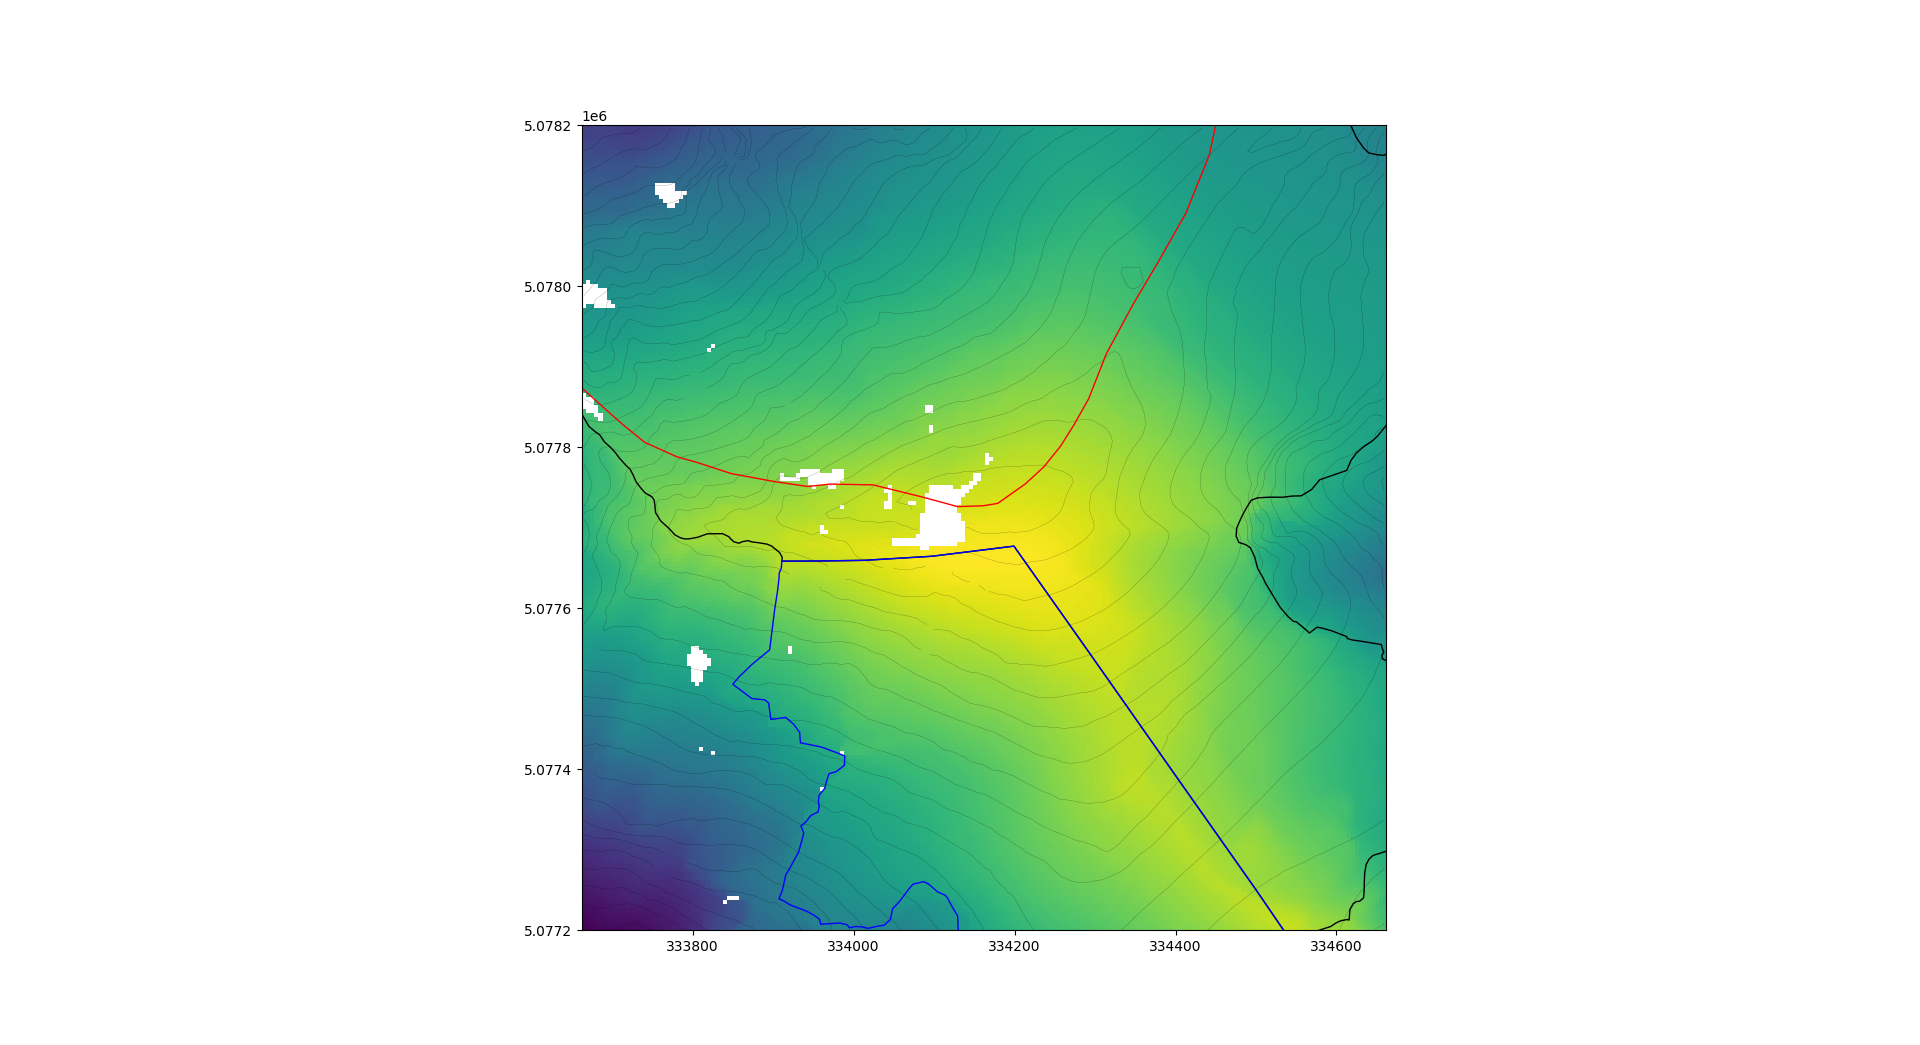
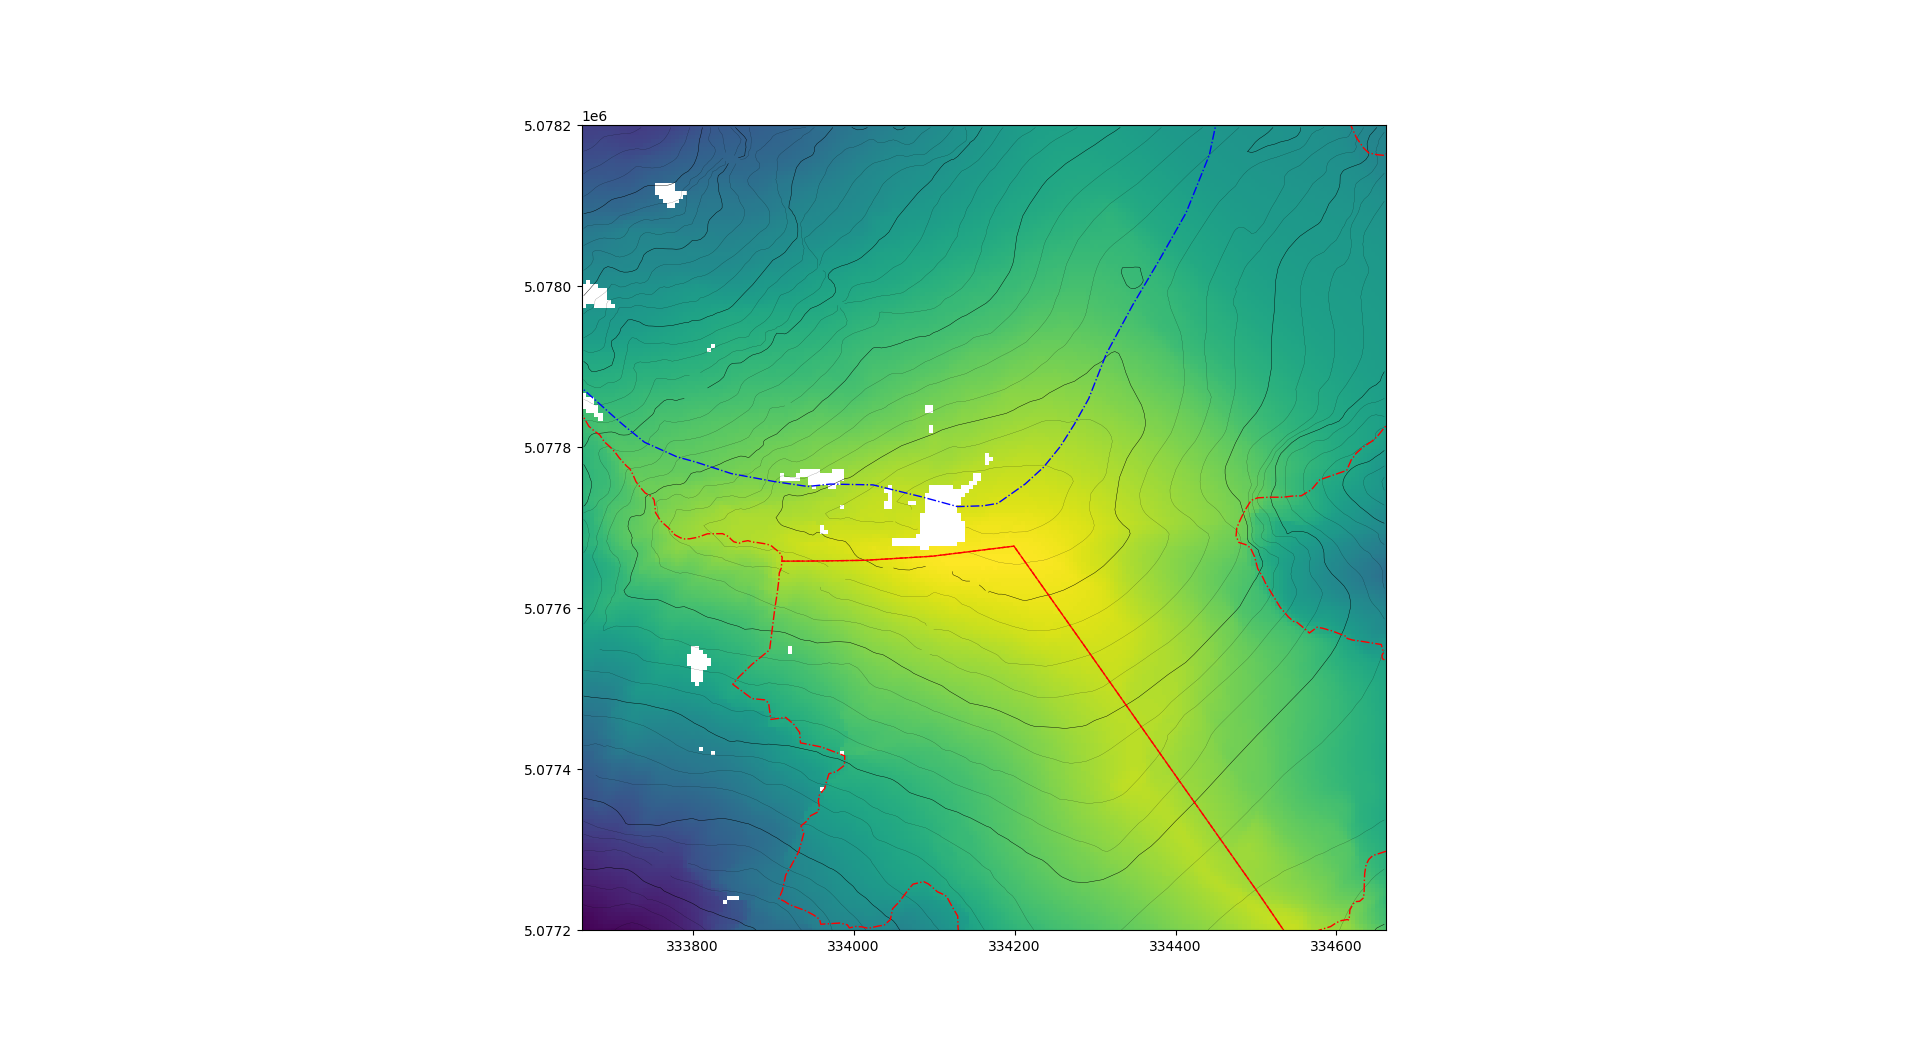
Contour levels!

Changed region(s): [[0.4375, 0.5206, 0.4688, 0.5512], [0.4062, 0.4593, 0.4375, 0.49], [0.3125, 0.3981, 0.3438, 0.4287]]

diff --git a/confine/monte_bianco.py b/confine/monte_bianco.py
@@ -75,18 +75,24 @@ if np.any(raw_dem == -9999):
 
 qcs = plt.contour(raw_dem,levels = list(range(4000, 5000, 25)))    
 
+idx = 0
+lw = .1
 for collection in qcs.collections:
+    if int(qcs.levels[idx]) % 100 == 0:
+        lw=.3
+    else:
+        lw=.1
     for path in collection.get_paths():
         for polygon in path.to_polygons(): 
             polygon[:,0]=5*(polygon[:,0]-raw_dem.shape[0]/2)
             polygon[:,1]=5*(polygon[:,1]-raw_dem.shape[1]/2)
             polygon[:,0]=polygon[:,0]+monte_bianco[0]
             polygon[:,1]=polygon[:,1]+monte_bianco[1]
-            ax.add_patch(Polygon(polygon,fill=None,closed=False,linewidth=.1))
-            #ax.plot(polygon[:,0],polygon[:,1],'.')
+            ax.add_patch(Polygon(polygon,fill=None,closed=False,linewidth=lw))
+    idx = idx+1
 
 
-boundary.plot(ax=ax,facecolor="none", edgecolor=["red","black","blue"])
+boundary.plot(ax=ax,facecolor="none", edgecolor=["blue","red","red"],linestyle='-.')
 
 #boundary_fr.plot(ax=ax,facecolor="none", edgecolor="black")
 #boundary_it.plot(ax=ax,facecolor="none", edgecolor="black")
